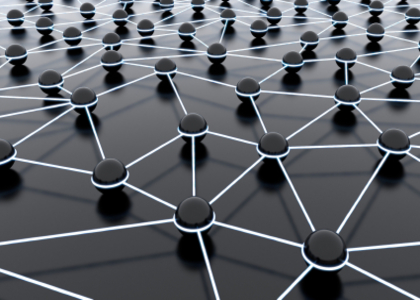
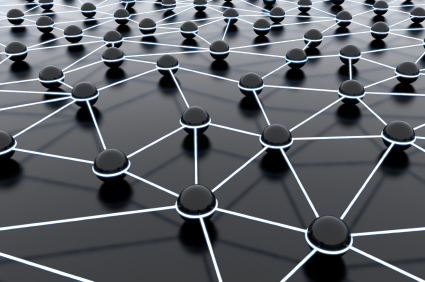
Change subtitle; Add routing img

diff --git a/index.html b/index.html
@@ -34,7 +34,7 @@
             <div class="container hero">
                 <div class="row">
                     <div class="col-md-12">
-                        <h1 class="text-nowrap text-left">"Life passes into pages if it passes into anything"</h1></div>
+                        <h1 class="text-left">"Life passes into pages if it passes into anything"</h1></div>
                 </div>
             </div>
         </div>
@@ -42,7 +42,7 @@
     <div class="projects-horizontal">
         <div class="container">
             <div class="intro">
-                <h2 class="text-center">Quick Links</h2></div>
+                <h2 class="text-center">Recent Research Projects</h2></div>
             <div class="row projects">
                 <div class="col-sm-6 item">
                     <div class="row">
@@ -69,7 +69,7 @@
                 <div class="col-sm-6 item">
                     <div class="row">
                         <div class="col-md-5">
-                            <a href="project/dynamic-routing/index.html"><img class="img-responsive" src="assets/img/distributed.jpg"></a>
+                            <a href="project/dynamic-routing"><img class="img-responsive" src="assets/img/routing.jpg"></a>
                         </div>
                         <div class="col-md-7">
                             <h3 class="name">Dynamic Routing in Software-Defined Network</h3>
